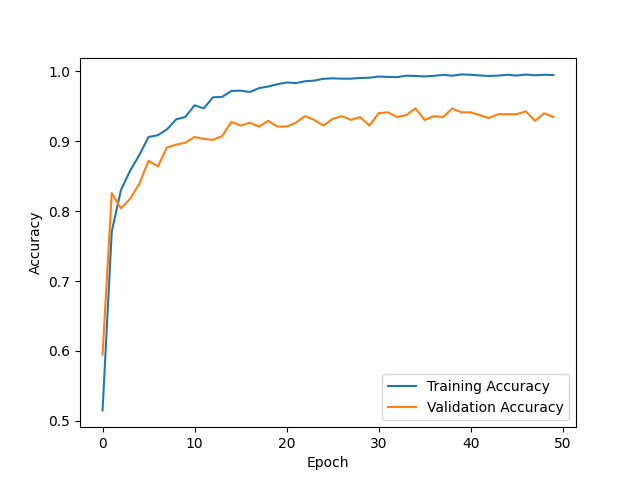
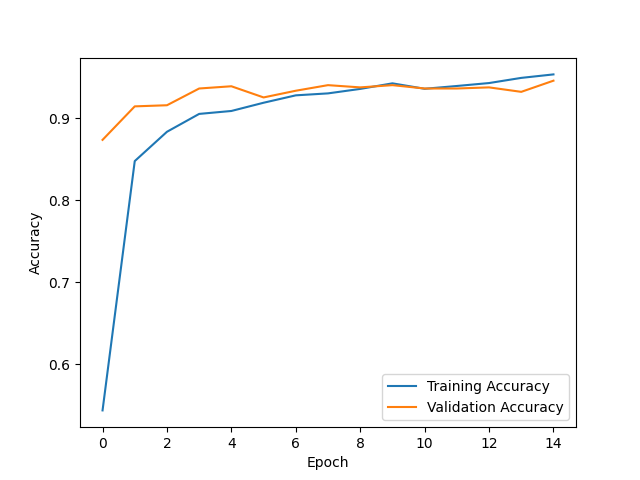
changes from today

diff --git a/main.py b/main.py
@@ -10,24 +10,26 @@ from transformers import ViTFeatureExtractor, ViTForImageClassification, Trainer
 import time
 import numpy as np
 import kornia
+import json
+import os
 
 device = torch.device("cuda:0" if torch.cuda.is_available() else "cpu")
 data_dir = "./datasets/oxfordIIITPet"
 
-transform = nn.Sequential(
-    # random vertical flip
-    kornia.augmentation.RandomVerticalFlip(p=0.4),
-    # random rotation
-    kornia.augmentation.RandomRotation(degrees=20),
-    # random color jitter
-    kornia.augmentation.ColorJitter(0.2, 0.2, 0.2, 0.2, p=0.3),
-    # random grayscale
-    kornia.augmentation.RandomGrayscale(p=0.2),
-    # random blur
-    kornia.augmentation.RandomGaussianBlur((3, 3), (1.5, 1.5), p=0.1),
-    # random affine
-    # kornia.augmentation.RandomAffine((-15, 20), p=0.1),
-  )
+def create_transform(random_vertical_flip=False, random_rotation=False, color_jitter=False, random_grayscale=False, random_gaussian_blue=False):
+  transform = []
+  if random_vertical_flip:
+    transform.append(kornia.augmentation.RandomVerticalFlip(p=0.4))
+  if random_rotation:
+    transform.append(kornia.augmentation.RandomRotation(degrees=20))
+  if color_jitter:
+    transform.append(kornia.augmentation.ColorJitter(0.2, 0.2, 0.2, 0.2, p=0.3))
+  if random_grayscale:
+    transform.append(kornia.augmentation.RandomGrayscale(p=0.2))
+  if random_gaussian_blue:
+    transform.append(kornia.augmentation.RandomGaussianBlur((3, 3), (1.5, 1.5), p=0.1))
+
+  return nn.Sequential(*transform)
 
 def load_dataset(binary_classification=False):
   transform = transforms.Compose([
@@ -63,35 +65,15 @@ def load_dataset(binary_classification=False):
     test_dataset = datasets.OxfordIIITPet(root=data_dir, split="test", transform=transform, target_transform=target_transform)
     test_dataset.classes = ['dog', 'cat']
     dataset = torch.utils.data.ConcatDataset([train_dataset, test_dataset])
-    # Save the modified dataset to disk
-    torch.save(dataset, 'datasets/oxfordIIITPet/dataset_mod_binary.pth')
-
   else:
     train_dataset = datasets.OxfordIIITPet(root=data_dir, download=True, split="trainval", transform=transform)
     test_dataset = datasets.OxfordIIITPet(root=data_dir, download=True, split="test", transform=transform)
     dataset = ConcatDataset([train_dataset, test_dataset])
-    # Save the modified dataset to disk
-    torch.save(dataset, 'datasets/oxfordIIITPet/dataset_mod.pth')
 
   # split the dataset
   training_data, validation_data, test_data = random_split(dataset, [0.8, 0.1, 0.1])
 
   return training_data, validation_data, test_data
-
-# Load already transformed dataset from disk
-def load_dataset_mod(binary_classification=False):
-  if binary_classification:
-    dataset = torch.load('datasets/oxfordIIITPet/dataset_mod_binary.pth')
-  else:
-    dataset = torch.load('datasets/oxfordIIITPet/dataset_mod.pth')
-
-  # split the dataset
-  training_data, validation_data, test_data = random_split(dataset, [0.8, 0.1, 0.1])
-
-  return training_data, validation_data, test_data
-
-  
-
 
 def freeze_pretrained_layers(model, n_layers_to_unfreeze, unfreeze_normalization=True):
   n = n_layers_to_unfreeze
@@ -119,7 +101,6 @@ def freeze_pretrained_layers(model, n_layers_to_unfreeze, unfreeze_normalization
 def create_vit_model():
   model = models
 
-
 def create_resnet_model(output_dimension=37, layers_to_fine_tune=1, fine_tune_normalization=True):
     # try model with more layers
     model = models.resnet152(weights="ResNet152_Weights.DEFAULT").to(device)
@@ -133,7 +114,7 @@ def create_resnet_model(output_dimension=37, layers_to_fine_tune=1, fine_tune_no
 def evaluate(model, dataset, criterion):
   model.eval()
 
-  validation_loader = torch.utils.data.DataLoader(dataset, batch_size=128, shuffle=False)
+  validation_loader = torch.utils.data.DataLoader(dataset, batch_size=64, shuffle=False)
 
   correct_predictions = 0
   running_loss = 0.0
@@ -147,12 +128,11 @@ def evaluate(model, dataset, criterion):
     _, predicted = torch.max(outputs, 1)
     correct_predictions += torch.sum(predicted == labels)
 
-
   validation_accuracy = correct_predictions/len(dataset)
   validation_loss = running_loss/len(validation_loader)
   return validation_accuracy, validation_loss
 
-def train(model, training_data, validation_data, optimizer, scheduler, criterion, n_epochs=10):
+def train(model, training_data, validation_data, optimizer, scheduler, criterion, transform, n_epochs=10):
 
   training_loader = torch.utils.data.DataLoader(training_data, batch_size=128, shuffle=True)
 
@@ -184,11 +164,22 @@ def train(model, training_data, validation_data, optimizer, scheduler, criterion
     validation_accuracy, validation_loss = evaluate(model, validation_data, criterion)
     time2 = time.time()
     print(f"Epoch {epoch+1}/{n_epochs} | Training Loss: {training_loss:.4f} | Training Accuracy: {training_accuracy:.4f} | Validation Loss: {validation_loss:.4f} | Validation Accuracy: {validation_accuracy:.4f} | In {time2-time1:.2f} seconds")
-    training_metrics.append((training_loss, training_accuracy, validation_loss, validation_accuracy))
-
-  torch.save(model.state_dict(), f"models/model.pth")
+    training_metrics.append({
+      "epoch": epoch+1,
+      "training_loss": training_loss,
+      "training_accuracy": float(training_accuracy),
+      "validation_loss": validation_loss,
+      "validation_accuracy": float(validation_accuracy),
+    })
 
   return training_metrics
+
+
+def save_training_metrics(training_metrics, filename="training_metrics.json"):
+  path = "training_metrics/" + filename
+  os.makedirs(os.path.dirname(path), exist_ok=True)
+  with open(path, "w", ) as f:
+    json.dump(training_metrics, f)
 
 def plot_loss(training_loss, validation_loss, filename="loss.png"):
   plt.plot(training_loss, label="Training Loss")
@@ -218,33 +209,39 @@ def plot(training_metrics, loss_filename="loss.png", accuracy_filename="accuracy
   plt.close()
 
 # Evaluate the most recently trained model on the test set
-def test(model, test_data, criterion, load_from_pretrained=False):
+def test(model, test_data, criterion, load_from_pretrained=False, print_res=True):
   if load_from_pretrained:
     model.load_state_dict(torch.load("models/model.pth"))
   model.eval()
   test_accuracy, _ = evaluate(model, test_data, criterion)
-  print(f"Test Accuracy: {test_accuracy:.4f}")
+  if print_res:
+    print(f"Test Accuracy: {test_accuracy:.4f}")
+  return float(test_accuracy)
 
 
 
 if __name__ == "__main__":
   do_binary_classification = False
-  load_from_pretrained = False
   training_data, validation_data, test_data = load_dataset(binary_classification=do_binary_classification)
+  transform_properties = ["random_vertical_flip", "random_rotation", "color_jitter", "random_grayscale", "random_gaussian_blue"]
+  finetune_layers = [1, 2, 3]
+  freeze_normalization = [False, True]
+  learning_rates = [1e-1, 1e-3, 1e-4]
+  schedulers = [("exponential", lr_scheduler.ExponentialLR, {"gamma": 0.9}), ("cyclic", lr_scheduler.CyclicLR, {"base_lr": 1e-4, "max_lr": 1e-2, "cycle_momentum": False}), ("constant", "constant", {"lr": 1e-3})]
 
-  model = create_resnet_model(
-    output_dimension=2 if do_binary_classification else 37,
-    layers_to_fine_tune=1,
-    fine_tune_normalization=False
-  )
+  transform = create_transform()
+  def test_transform(transform_dict):
+    transform = create_transform(**transform_dict)
+    model = create_resnet_model(
+      output_dimension=2 if do_binary_classification else 37,
+      layers_to_fine_tune=1,
+      fine_tune_normalization=False
+    )
 
-  print(model)
+    criterion = nn.CrossEntropyLoss()
+    optimizer = optim.Adam(model.parameters(), lr=0.01)
+    scheduler = lr_scheduler.ExponentialLR(optimizer, gamma=0.9)
 
-  criterion = nn.CrossEntropyLoss()
-  optimizer = optim.Adam(model.parameters(), lr=0.01)
-  scheduler = lr_scheduler.ExponentialLR(optimizer, gamma=0.9)
-
-  if not load_from_pretrained:
     training_metrics = train(
       model=model,
       training_data=training_data,
@@ -252,14 +249,109 @@ if __name__ == "__main__":
       optimizer=optimizer,
       scheduler=scheduler,
       criterion=criterion,
+      transform=transform,
       n_epochs=15,
     )
 
-    prefix = "binary_" if do_binary_classification else "multiclass_"
+    training_metrics = {
+      "training_metrics": training_metrics
+    }
+    training_metrics["test_accuracy"] = test(model, test_data, criterion, print_res=False)
+
+    filename = "no_transform" if len(transform_dict.keys()) == 0 else "_".join(transform_dict.keys())
+    save_training_metrics(training_metrics, filename=f"transform_tests/{filename}.json")
+
+
+  try:
+    test_transform({})
+
+    for transform_property in transform_properties:
+      test_transform({transform_property: True})
+
+    test_transform({transform_property: True for transform_property in transform_properties})
+  except:
+    pass
+
+  def test_num_layers(fine_tune_layer, fine_tune_normalization=False):
+    transform = create_transform(**{transform_property: True for transform_property in transform_properties})
+    model = create_resnet_model(
+      output_dimension=2 if do_binary_classification else 37,
+      layers_to_fine_tune=fine_tune_layer,
+      fine_tune_normalization=freeze_normalization
+    )
+
+    criterion = nn.CrossEntropyLoss()
+    optimizer = optim.Adam(model.parameters(), lr=0.01)
+    scheduler = lr_scheduler.ExponentialLR(optimizer, gamma=0.9)
+
+    training_metrics = train(
+      model=model,
+      training_data=training_data,
+      validation_data=validation_data,
+      optimizer=optimizer,
+      scheduler=scheduler,
+      criterion=criterion,
+      transform=transform,
+      n_epochs=15,
+    )
+
+    training_metrics = {
+      "training_metrics": training_metrics
+    }
+    training_metrics["test_accuracy"] = test(model, test_data, criterion, print_res=False)
+
+    save_training_metrics(training_metrics, filename=f"num_layer_tests/{str(fine_tune_layer) + ('incl_normalization' if fine_tune_normalization else '')}.json")
+
+  try:
+    # test fine tune layers
+    for fine_tune_normalization in [False, True]:
+      for fine_tune_layer in finetune_layers:
+        test_num_layers(fine_tune_layer, fine_tune_normalization=fine_tune_normalization)
+  except:
+    pass
+  
+  try:
+    for scheduler_name, scheduler_class, scheduler_kwargs in schedulers:
+      transform = create_transform(**{transform_property: True for transform_property in transform_properties})
+      model = create_resnet_model(
+        output_dimension=2 if do_binary_classification else 37,
+        layers_to_fine_tune=1,
+        fine_tune_normalization=False
+      )
+
+      criterion = nn.CrossEntropyLoss()
+      if scheduler_class == "constant":
+        optimizer = optim.Adam(model.parameters(), lr=scheduler_kwargs["lr"])
+      else:
+        optimizer = optim.Adam(model.parameters(), lr=0.01)
+        scheduler = scheduler_class(optimizer, **scheduler_kwargs)
+
+
+      training_metrics = train(
+        model=model,
+        training_data=training_data,
+        validation_data=validation_data,
+        optimizer=optimizer,
+        scheduler=scheduler,
+        criterion=criterion,
+        transform=transform,
+        n_epochs=15,
+      )
+
+      training_metrics = {
+        "training_metrics": training_metrics
+      }
+      training_metrics["test_accuracy"] = test(model, test_data, criterion, print_res=False)
+
+      save_training_metrics(training_metrics, filename=f"scheduler_tests/{scheduler_name}.json")
+  except:
+    pass
+
+
+
+
+
     # plot(training_metrics, loss_filename=prefix + "loss.png", accuracy_filename=prefix + "accuracy.png")
-
-  test(model, test_data, criterion, load_from_pretrained=load_from_pretrained)
-
 
 # Final layer only, 10 epochs: 0.91
 # Two last layers only, 10 epochs: 0.89
